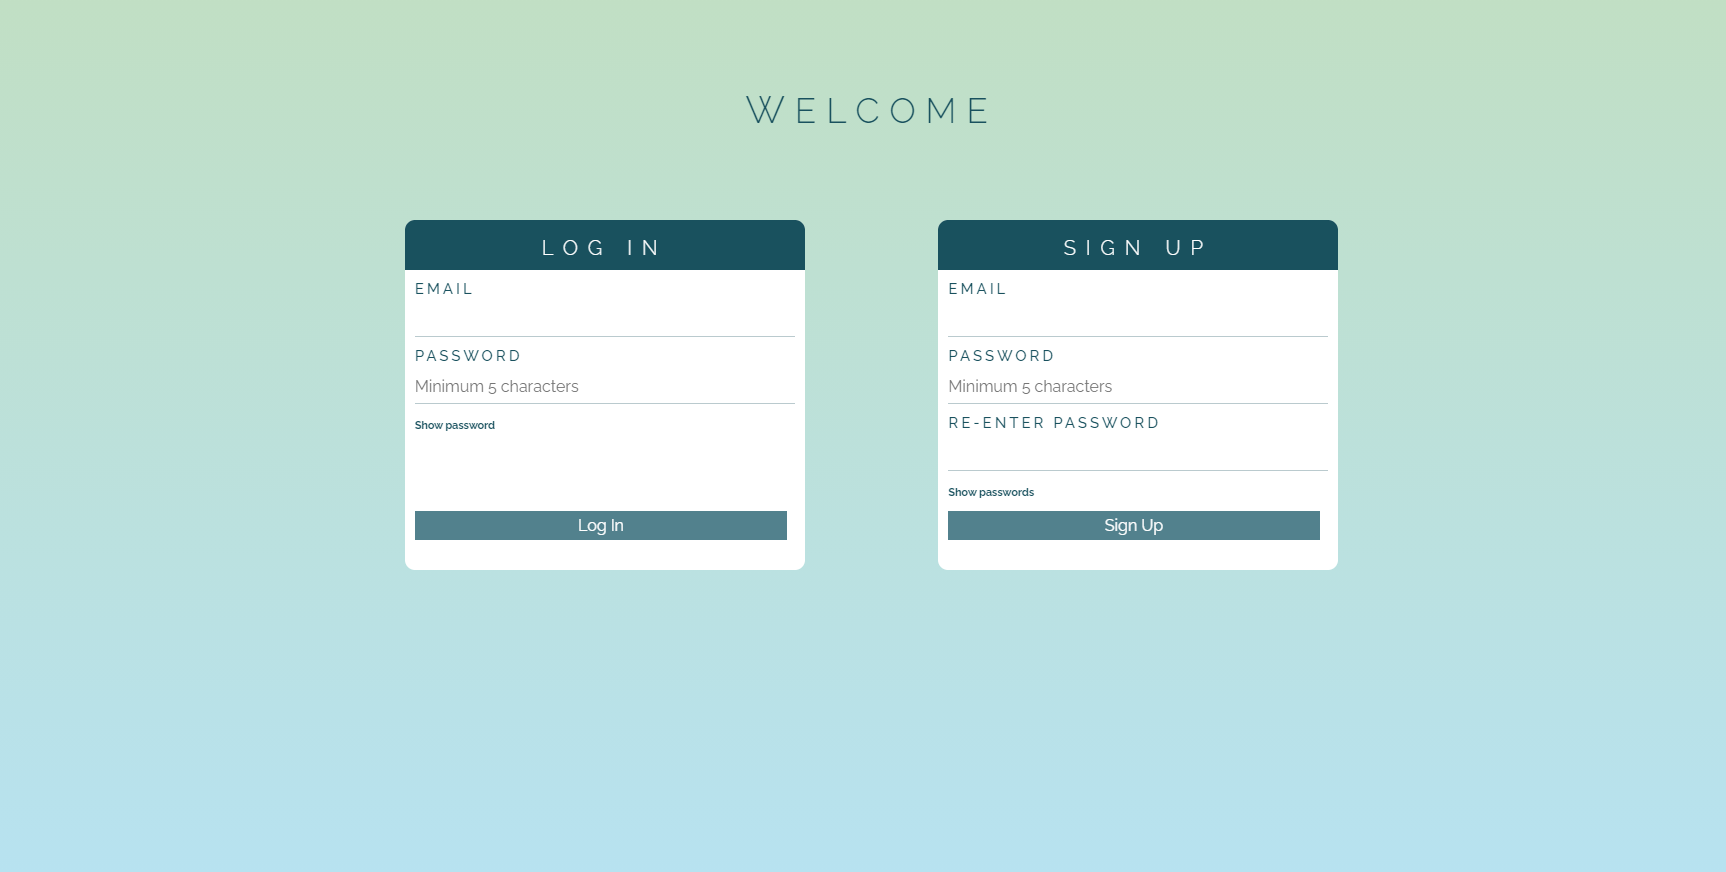
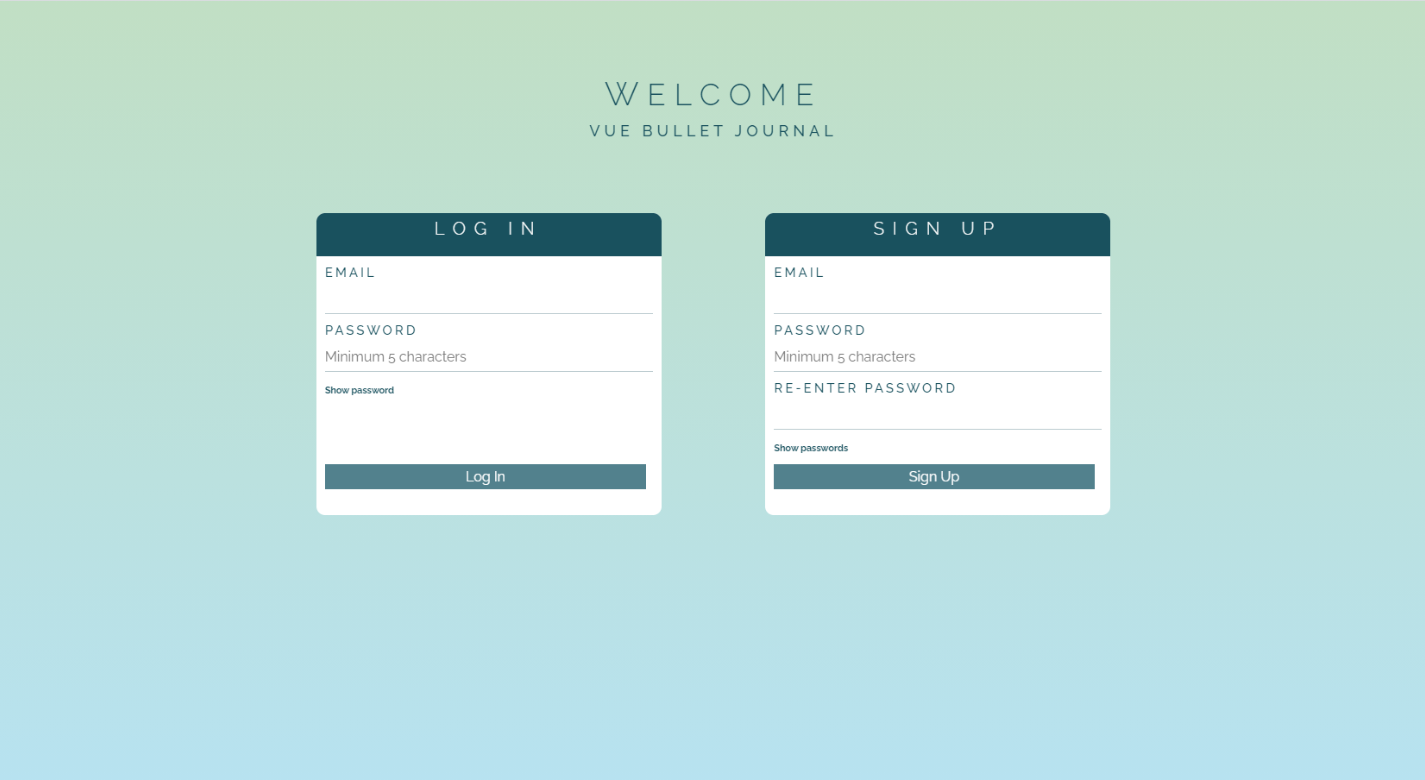
added screenshots & updated README

Changed region(s): [[0.5249, 0.2462, 0.8028, 0.6769], [0.2161, 0.2462, 0.494, 0.6769], [0.4014, 0.0923, 0.5867, 0.1846]]

diff --git a/client/src/views/Login.vue b/client/src/views/Login.vue
@@ -1,6 +1,7 @@
 <template>
   <div id="login">
     <h1 class="greeting"><span>W</span>elcome</h1>
+    <h2>Vue Bullet Journal</h2>
     <div class="entry-options">
         <h3 @click="entryLogin = true">Log In</h3>
         <p>/</p>
@@ -98,7 +99,11 @@ export default {
 <style scoped>
 
 h1 {
-    margin: 0 auto;
+    margin: 0 auto 10rem;
+}
+
+h2 {
+    text-align: center;
 }
 
 h3 {

diff --git a/README.md b/README.md
@@ -9,6 +9,11 @@ Feel free to test with an existing account: <br>
 -  Login: example@email.com
 -  Password: example
 
+View more images in **screenshots** folder:
+
+<img src="screenshots/desktop-1.png" alt="title-sequence" width="250" height="150"/>
+<img src="screenshots/desktop-2.png" alt="title-sequence" width="250" height="150"/>
+
 A guide to the Bullet Journal System: <br>
 https://www.tinyrayofsunshine.com/blog/bullet-journal-guide
 
@@ -32,3 +37,5 @@ https://www.tinyrayofsunshine.com/blog/bullet-journal-guide
 -  Node.js and Express.js
 -  MongoDB
 -  HTML, CSS, JavaScript
+
+---
